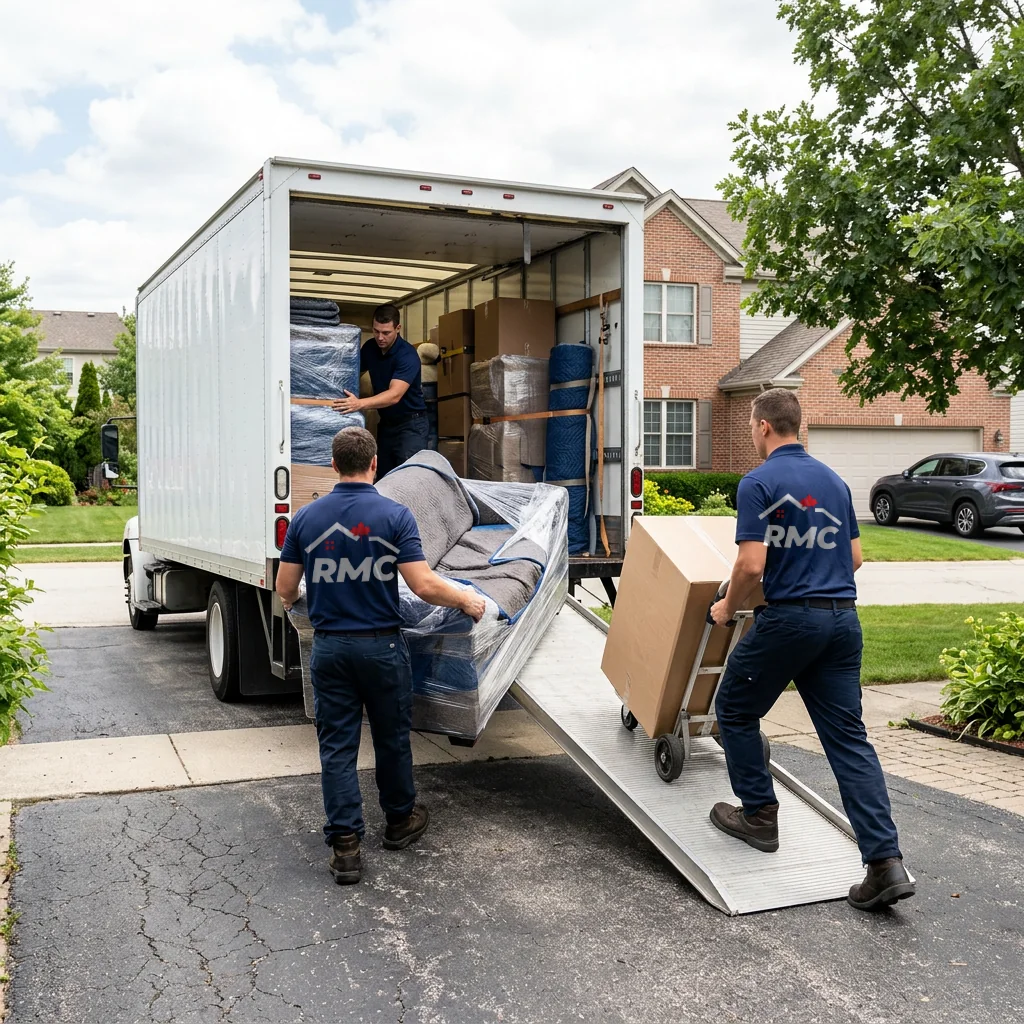
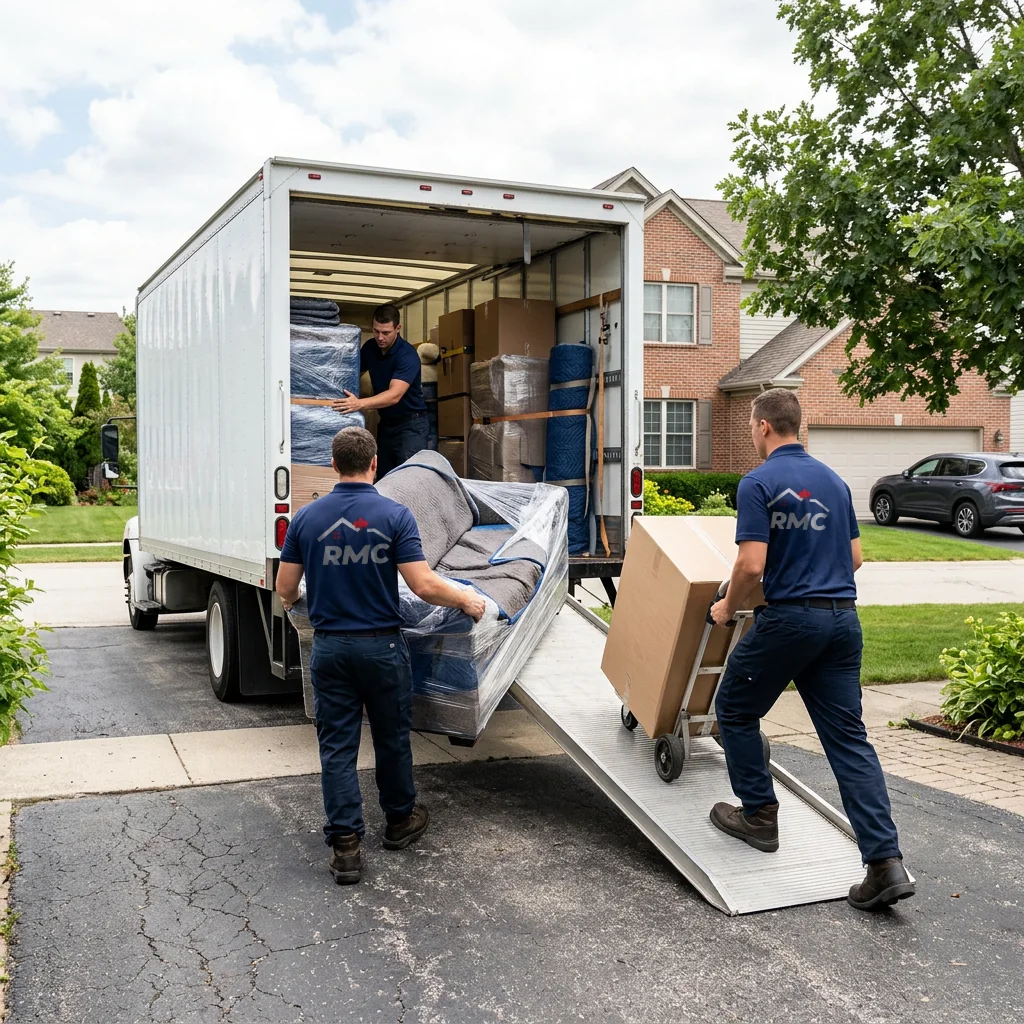
Replace the blanket-wrapping photo, soften back prints, responsive fixes
- New blanket-wrapping photo: the old one showed another company's name
  on a shirt. The new crew wears plain navy polos with the RMC chest logo.
- Back prints on the truck-loading photo are smaller, sit on the upper
  back and are toned like real screen print instead of bright white.
- Service area cards stack their name above the description (names were
  splitting mid-word on tablets and overflowing at 320px).
- Header fits at 320px (Get a quote moves into the menu) and on 1366px
  laptops (phone numbers hide below 1400px); auth logo scales on phones.

Claude-Session: https://claude.ai/code/session_01P7c7Prais9oAUpcUYyeFU1

Changed region(s): [[0.2812, 0.5, 0.4062, 0.5938], [0.7188, 0.4688, 0.8125, 0.5312]]

diff --git a/src/styles/layout.css b/src/styles/layout.css
@@ -50,7 +50,7 @@
 .nav-item-account { display: none; }
 @media (min-width: 961px) { .header-bar .logo { --logo-h: clamp(56px, 9.4vh, 84px); } }
 @media (max-width: 1520px) and (min-width: 961px) { .header-bar .logo { --logo-h: clamp(56px, 9.4vh, 72px); } .nav-link { padding-inline: .6rem; } .header-bar { gap: 1rem; } }
-@media (max-width: 1360px) { .header-phones { display: none; } }
+@media (max-width: 1400px) { .header-phones { display: none; } }
 @media (max-width: 1280px) and (min-width: 961px) { .header-bar .logo { --logo-h: clamp(56px, 9vh, 64px); } .nav-link { padding-inline: .5rem; font-size: .95rem; } }
 @media (max-width: 1100px) and (min-width: 961px) { .nav-link { padding-inline: .5rem; font-size: .9rem; } .header-bar .logo-text small { display: none; } }
 .header-cta-text { display: none; }
@@ -103,6 +103,9 @@
   .header-bar { gap: .5rem; }
   .header-actions { gap: .25rem; margin-left: auto; }
   .header-cta-text { font-size: .72rem; letter-spacing: .04em; }
+}
+@media (max-width: 359px) {
+  .header-cta-text { display: none; }
 }
 
 /* ─── Home hero (RMC brand mock-up) ─────────────────────────────────────── */

diff --git a/src/styles/pages.css b/src/styles/pages.css
@@ -145,10 +145,10 @@ form .notice { margin-top: 1.25rem; }
 .region-grid > li { display: flex; }
 .region-grid > li > * { width: 100%; }
 @media (max-width: 960px) { .region-grid { grid-template-columns: repeat(2, minmax(0, 1fr)); } }
-@media (max-width: 600px) { .region-grid { grid-template-columns: 1fr; } }
-.province-card { padding: 1.4rem; }
+@media (max-width: 600px) { .region-grid { grid-template-columns: minmax(0, 1fr); } }
+.province-card { flex-direction: column; padding: 1.4rem; }
 .province-card header { display: flex; align-items: center; gap: .75rem; margin-bottom: .6rem; }
-.province-card h3 { margin: 0; }
+.province-card h3 { margin: 0; min-width: 0; overflow-wrap: break-word; }
 .province-card p { margin: 0; color: var(--muted); font-size: .92rem; }
 .province-code { display: grid; place-items: center; width: 40px; height: 40px; border-radius: var(--r); background: var(--red-tint); color: var(--red); font-weight: 800; font-family: var(--font-head); font-size: .85rem; }
 

diff --git a/src/styles/auth.css b/src/styles/auth.css
@@ -5,7 +5,7 @@
 .auth-layout.is-flipped .auth-media { order: 1; }
 .auth-panel { display: flex; flex-direction: column; padding: clamp(1rem, 2.5vw, 1.75rem) clamp(1rem, 4vw, 3rem); }
 .auth-top { display: flex; justify-content: space-between; align-items: center; gap: 1rem; }
-.auth-top .logo { --logo-h: 64px; }
+.auth-top .logo { --logo-h: clamp(40px, 12vw, 64px); }
 .auth-back { display: inline-flex; align-items: center; gap: .4rem; color: var(--red); font-weight: 600; font-size: .88rem; text-decoration: none; }
 .auth-back:hover { text-decoration: underline; }
 .auth-main { flex: 1; display: flex; flex-direction: column; justify-content: center; width: 100%; max-width: 440px; margin: 2rem auto; }
